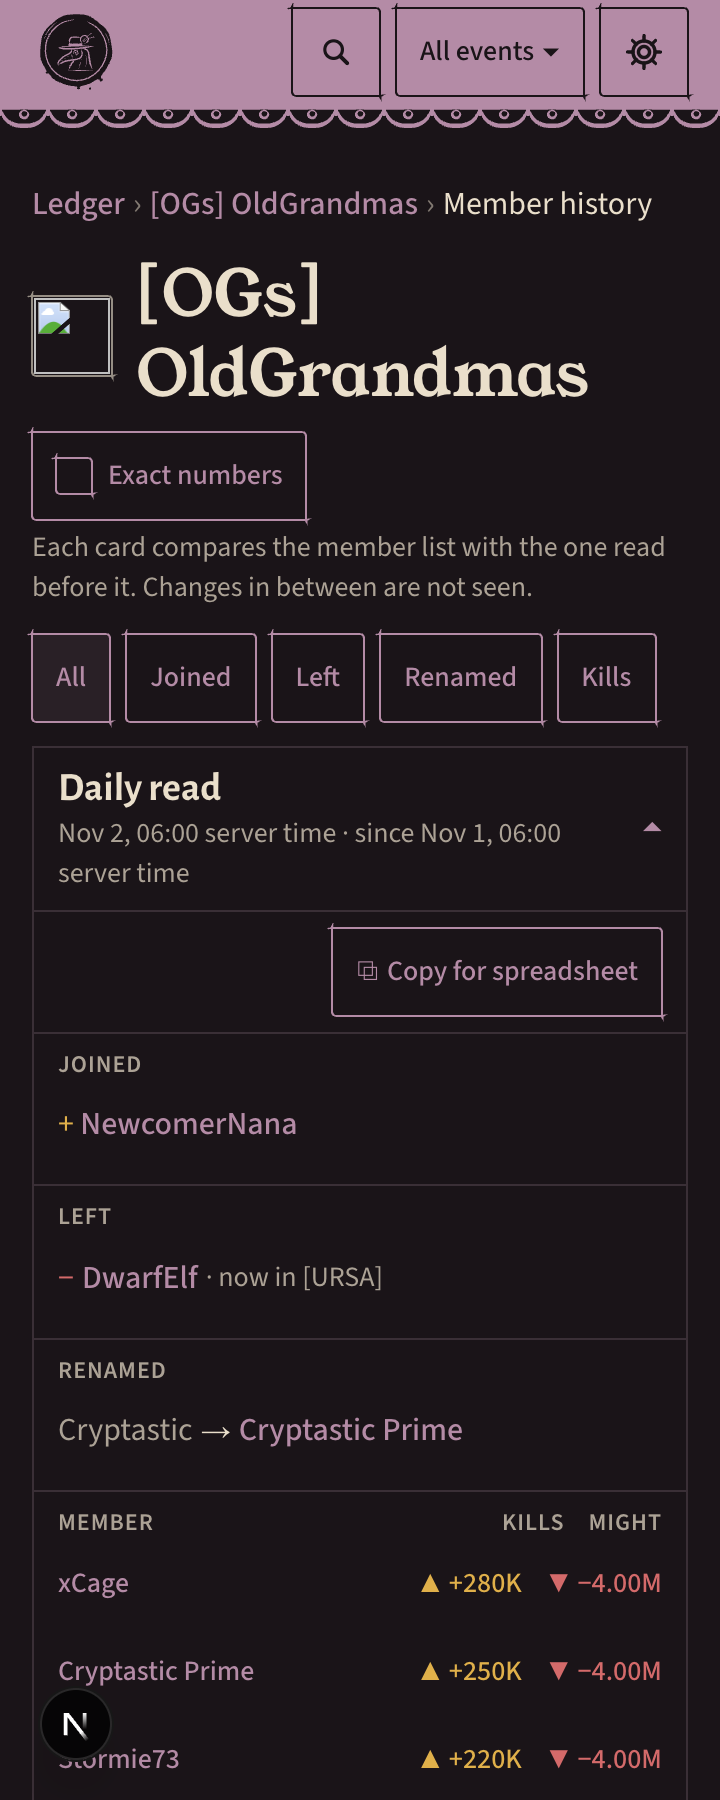
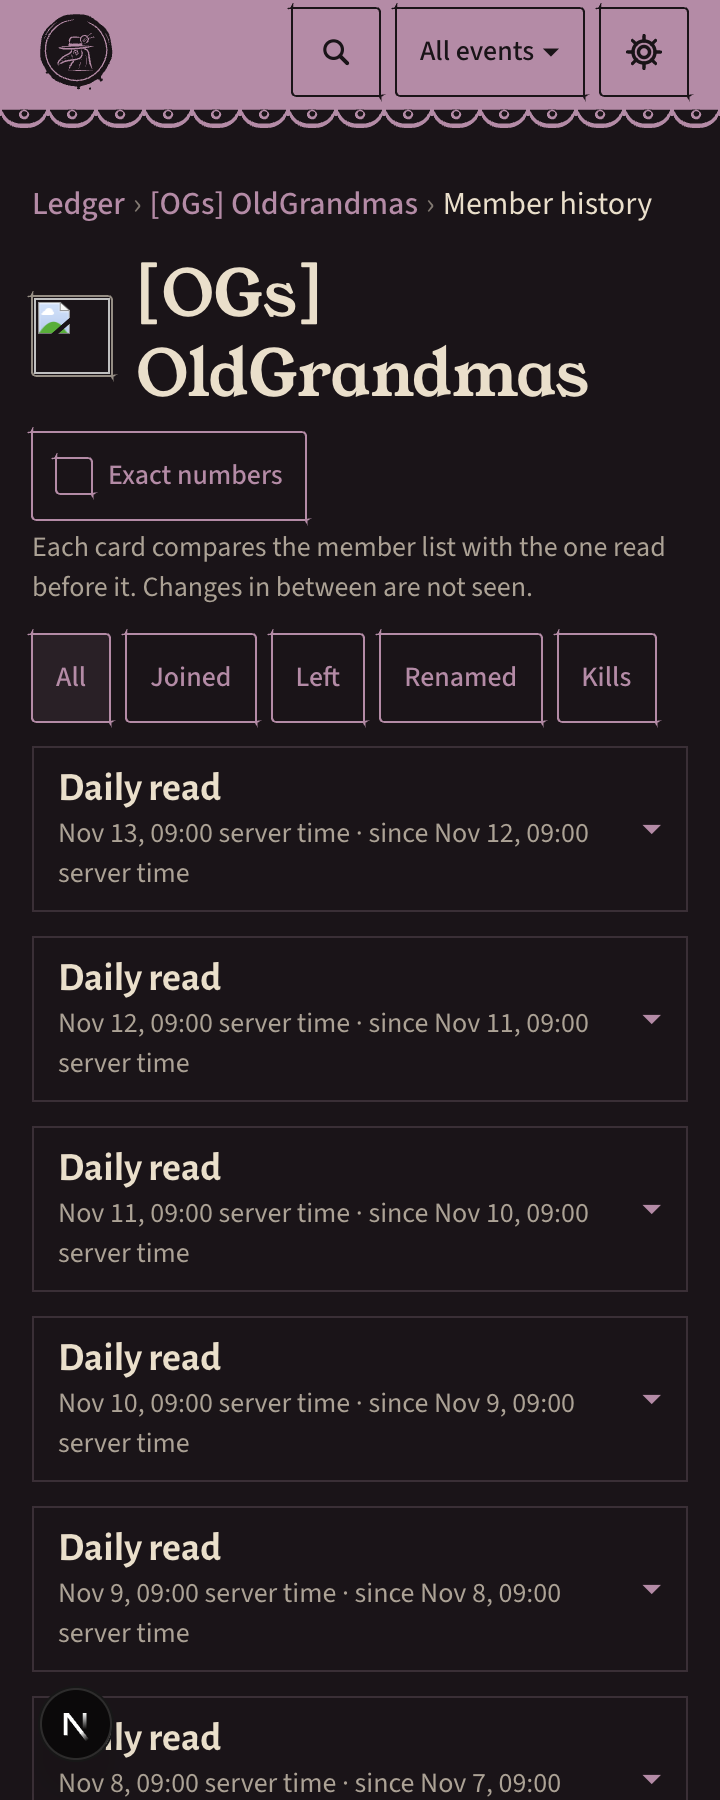
feat(alliance): every member history card starts collapsed (#197)
No card opens by default and the page reads only the cards' heads; each
card fetches its contents on first open.

diff --git a/app/(pages)/alliances/[unionId]/history/page.tsx b/app/(pages)/alliances/[unionId]/history/page.tsx
@@ -1,7 +1,7 @@
 // `/alliances/[unionId]/history[?show=joined|left|renamed|kills][&before=<ISO time>]`: member history
 // (D60, issue 197). One card per stored roster (daily reads and public event snapshots), newest first, 14
-// a page; only the first card starts open and comes with its contents, the others load theirs when
-// opened. With a filter on, every card is diffed here to know which match. No event in the URL: the
+// a page; every card starts closed and loads its contents when opened. With a filter on, every card is
+// diffed here to know which match. No event in the URL: the
 // history belongs to none, so the header's selector reads "All events".
 // A union id with no usable roster is a 404.
 import type { Metadata } from "next";
@@ -22,27 +22,12 @@ import { SiteHeader } from "@/app/_ui/SiteHeader";
 import type { Dictionary } from "@/lib/copy";
 import type { Db } from "@/lib/db";
 import { withPageDb } from "@/lib/page";
-import {
-  homeEvent,
-  listEvents,
-  memberHistory,
-  memberHistoryIndex,
-  type HistoryCard,
-} from "@/lib/queries";
+import { homeEvent, listEvents, memberHistory, memberHistoryIndex } from "@/lib/queries";
 
 type Params = Promise<{ unionId: string }>;
 type Search = Promise<Record<string, string | string[] | undefined>>;
 
-const bodyOf = ({ roster, joined, left, renamed, changed }: HistoryCard) => ({
-  roster,
-  joined,
-  left,
-  renamed,
-  changed,
-});
-
-/** The cards' heads and the first card's contents. Unfiltered: the light index, plus one full card.
- * Filtered: every card diffed, to keep those that match. */
+/** The cards' heads. Unfiltered: the light index. Filtered: every card diffed, to keep those that match. */
 async function historyPage(
   db: Db,
   unionId: number,
@@ -61,15 +46,9 @@ async function historyPage(
       badgeId,
       older,
       entries: cards.map(({ at, event, since }) => ({ at, event, since })),
-      firstBody: cards[0] ? bodyOf(cards[0]) : null,
     };
   }
-  const [index, first] = await Promise.all([
-    memberHistoryIndex(db, unionId, { before }),
-    memberHistory(db, unionId, { before, limit: 1 }),
-  ]);
-  const card = first?.cards[0];
-  return index && { ...index, firstBody: card ? bodyOf(card) : null };
+  return memberHistoryIndex(db, unionId, { before });
 }
 
 const load = cache((unionId: number, before: number | null, show: HistoryFilter | null) =>
@@ -236,12 +215,11 @@ export default async function MemberHistoryPage({
           <EmptyState>{copy.history.none}</EmptyState>
         ) : (
           <ul>
-            {history.entries.map((e, i) => (
+            {history.entries.map((e) => (
               <HistoryCardView
                 key={e.at.toISOString()}
                 unionId={unionId}
                 entry={e}
-                body={i === 0 ? history.firstBody : null}
                 filter={show}
                 clock={clock}
                 copy={copy}

diff --git a/app/_ui/MemberHistory.tsx b/app/_ui/MemberHistory.tsx
@@ -1,14 +1,14 @@
 // Member history (D60, issue 197): one collapsible card per stored roster, newest first. The head says when
-// the data was read (a daily read, or an event's Start or End) and since when the card counts. Only the
-// page's first card is open and comes with its contents; the others fetch theirs when opened
-// (MemberHistoryBody). Below 640 px and above, the same card.
+// the data was read (a daily read, or an event's Start or End) and since when the card counts. Every
+// card starts closed and fetches its contents when first opened (MemberHistoryBody). Below 640 px and
+// above, the same card.
 import { fill, type Dictionary } from "@/lib/copy";
-import type { HistoryCardBody, HistoryEntry } from "@/lib/queries";
+import type { HistoryEntry } from "@/lib/queries";
 
 import { EventLabel } from "./EventLabel";
 import { type Clock } from "./format";
 import type { HistoryFilter } from "./member-history";
-import { CardBody, LazyCardBody } from "./MemberHistoryBody";
+import { LazyCardBody } from "./MemberHistoryBody";
 
 const MUTED = "text-ink/70";
 
@@ -44,38 +44,30 @@ function CardHead({ entry, clock, copy }: { entry: HistoryEntry; clock: Clock; c
   );
 }
 
-/** A collapsible card (native `<details>`). `body` given: open, with its contents; null: closed, its
- * contents fetched on the first open. */
+/** A collapsible card (native `<details>`), closed; its contents are fetched on the first open. */
 export function HistoryCardView({
   unionId,
   entry,
-  body,
   filter,
   clock,
   copy,
 }: {
   unionId: number;
   entry: HistoryEntry;
-  body: HistoryCardBody | null;
   filter: HistoryFilter | null;
   clock: Clock;
   copy: Dictionary;
 }) {
-  const first = entry.since === null;
   return (
     <li className="mb-3 border border-rule">
-      <details open={body !== null} className="group/card">
+      <details className="group/card">
         <CardHead entry={entry} clock={clock} copy={copy} />
-        {body ? (
-          <CardBody body={body} filter={filter} first={first} />
-        ) : (
-          <LazyCardBody
-            unionId={unionId}
-            at={entry.at.toISOString()}
-            filter={filter}
-            first={first}
-          />
-        )}
+        <LazyCardBody
+          unionId={unionId}
+          at={entry.at.toISOString()}
+          filter={filter}
+          first={entry.since === null}
+        />
       </details>
     </li>
   );

diff --git a/app/_ui/MemberHistoryBody.tsx b/app/_ui/MemberHistoryBody.tsx
@@ -1,9 +1,8 @@
 "use client";
 
 // A member history card's contents (D60): the copy button, then who joined, who left (and where they are
-// now), who changed name, and whose kills or might changed. The open card gets its contents with the
-// page; a closed one fetches them the first time it is opened (LazyCardBody), so the page carries only
-// the cards' heads.
+// now), who changed name, and whose kills or might changed. A card fetches them the first time it is
+// opened (LazyCardBody), so the page carries only the cards' heads.
 import Link from "next/link";
 import { useEffect, useRef, useState, type ReactNode } from "react";
 
@@ -95,7 +94,7 @@ function LeftGroup({ body, copy }: { body: HistoryCardBody; copy: Dictionary }) 
 }
 
 /** `first`: the alliance's first stored roster, which has nothing to compare with. */
-export function CardBody({
+function CardBody({
   body,
   filter,
   first,

diff --git a/docs/handoff/08zzt-alliance-history.md b/docs/handoff/08zzt-alliance-history.md
@@ -39,7 +39,7 @@ Owner, 2026-11-10, on spike 08zzr (PR #203): "lets go with the option C, you can
   - `app/api/tick/route.test.ts`, 1 test: the read runs once on Friday 2026-11-06 (06:05 and 06:20 server) and not on Saturday 2026-11-07, the scheduled event's day; it creates no event of its own.
   - `lib/queries/member-history.test.ts`, 3 tests: joined, left with `nowIn`, renamed and changed, with a stale roster skipped; paging, and null for an unknown alliance; the index gives the same heads and spans as the full history.
   - `app/api/alliances/[unionId]/history/route.test.ts`, 1 test: the card read at `at` (joined and left against the previous roster, no blocked key), 404 for another time, 400 for a malformed one.
-- Screenshots: `docs/screenshots/08zzt-alliance-history-{360,1280}-{light,dark}.png`, `08zzt-alliance-history-360-light-full.png` (whole page: one card open, seven closed), `08zzt-alliance-history-360-light-left.png` (the Left filter), `08zzt-alliance-link-360.png` (the link on the alliance page).
+- Screenshots: `docs/screenshots/08zzt-alliance-history-{360,1280}-{light,dark}.png`, `08zzt-alliance-history-360-light-full.png` (whole page: 14 closed cards and "Older ↓"), `08zzt-alliance-history-360-light-opened.png` (the first card opened), `08zzt-alliance-history-360-light-left.png` (the Left filter), `08zzt-alliance-link-360.png` (the link on the alliance page).
 
 ## Decisions
 - **14 cards per page, not the spike's 30.** Each card carries its roster's spreadsheet text (≈ 3.5 KB per 100 members) for the copy button. 14 cards are ≈ 50 KB, 30 would be ≈ 105 KB on a phone.
@@ -48,8 +48,8 @@ Owner, 2026-11-10, on spike 08zzr (PR #203): "lets go with the option C, you can
 - **"now in [TAG]"** uses the member's newest sighting in any stored roster (daily or public event). It is shown only when that sighting is in another alliance. It is read from public rosters only, never from `joined_at`.
 - **Event cards are named** by the event's label (D49) and the capture-window words Start / End (`copy.status.start/end`), so no new phase words were needed.
 - **Cards list only members whose kills or might changed**, the first 10, then "Show all (n)" (a `<details>`, no JavaScript). The full roster goes only into the spreadsheet copy.
-- **Lazy contents** (owner, 2026-11-10): the page renders every card's head but only the open card's contents. Unfiltered, it reads `memberHistoryIndex` (heads only: no member lists, no member query) plus `memberHistory(limit 1)` for the open card. Opening a closed card calls `GET /api/alliances/[unionId]/history?at=<ISO time>` once (`memberHistoryCard`), which reuses `memberHistory` with `before = at + 1 ms, limit 1` and checks the time matches. The client part is `app/_ui/MemberHistoryBody.tsx` (`CardBody`, `LazyCardBody`: listens to its `<details>` `toggle`, fetches once, `…` while waiting, "Try again" (`copy.errors.server.retry`, no new strings) on failure). Filters and the spreadsheet text moved to `app/_ui/member-history.ts`, shared by server and client. With a filter on, the page still diffs every roster on the server to know which cards match; only the HTML stays light. The roster reads moved to `lib/queries/history-readings.ts` (file-size limit).
-- **Collapsible cards** (owner, 2026-11-10): each card is a native `<details>` (works without JavaScript). Only the first card on the page is open, i.e. the newest on the first page and, after "Older ↓", the newest of that page. The copy button moved from the head into the card body: a button inside `<summary>` would also toggle the card.
+- **Lazy contents** (owner, 2026-11-10): the page renders only the cards' heads. Unfiltered, it reads `memberHistoryIndex` alone (heads only: no member lists, no member query). Opening a card calls `GET /api/alliances/[unionId]/history?at=<ISO time>` once (`memberHistoryCard`), which reuses `memberHistory` with `before = at + 1 ms, limit 1` and checks the time matches. The client part is `app/_ui/MemberHistoryBody.tsx` (`CardBody`, `LazyCardBody`: listens to its `<details>` `toggle`, fetches once, `…` while waiting, "Try again" (`copy.errors.server.retry`, no new strings) on failure). Filters and the spreadsheet text moved to `app/_ui/member-history.ts`, shared by server and client. With a filter on, the page still diffs every roster on the server to know which cards match; only the HTML stays light. The roster reads moved to `lib/queries/history-readings.ts` (file-size limit).
+- **Collapsible cards** (owner, 2026-11-10): each card is a native `<details>` (opening and closing work without JavaScript; the contents need it). Every card starts closed (owner's second answer; the first version opened the newest). The copy button moved from the head into the card body: a button inside `<summary>` would also toggle the card.
 - **No avatars on the cards**: names only, to keep 14 cards light. Names link to the player page.
 
 ## Deviations
@@ -69,7 +69,8 @@ Owner, 2026-11-10, on spike 08zzr (PR #203): "lets go with the option C, you can
   - The Nov 3 stale read is skipped, and the Nov 2 card reads "since Nov 1, 06:00 server time".
   - "Copy for spreadsheet" with clipboard permission granted: the button reads "Copied" and the clipboard holds 101 lines. The header is `Name\tMight\tKills`, then e.g. `Sashalom\t162567834\t1942393`, 3 fields per row.
   - `?show=left`: 1 card, with "now in [URSA]".
-  - Lazy contents: on load, 8 cards, 1 open, 8 player links on the page and no API call. Opening card 2 makes exactly one call (`?at=2026-11-01T08:00:25.000Z`) and adds its 25 changed members; closing and reopening it makes none; its copy button copies 101 lines. A forced 500 on card 3 shows "Try again", which then loads it. One card's JSON is 10.3 KB (uncompressed, `next dev`).
+  - All collapsed (local data with 10 more daily reads, 18 rosters for OGs): 14 cards, 0 open and no API call on load, at 360 and 1280 px, light and dark; opening the first card makes one call. "Older ↓" leads to `?before=2026-10-31T12:00:30.000Z` with the other 4 cards, "↑ Newest" and no "Older". `?show=left`: 1 card, closed.
+  - Lazy contents (first version, newest card open): on load, 8 cards, 1 open, 8 player links on the page and no API call. Opening card 2 makes exactly one call (`?at=2026-11-01T08:00:25.000Z`) and adds its 25 changed members; closing and reopening it makes none; its copy button copies 101 lines. A forced 500 on card 3 shows "Try again", which then loads it. One card's JSON is 10.3 KB (uncompressed, `next dev`).
   - Collapsible cards: 8 cards, 1 open at each width and theme; tapping the second card's head opens it (2 open); the head row is 81 px tall at 360 px.
   - The alliance page has the "Member history" link.
   - `/alliances/99/history`, `/alliances/abc/history` and `?before=nope` answer 404.

diff --git a/docs/DESIGN.md b/docs/DESIGN.md
@@ -307,7 +307,7 @@ The whole list. Anything else is a composition of these; a new one needs a line 
 - **`stat-table` / `stat-card`** — one `StatTable` component: table ≥ 640 px, cards below. Rows ≥ 44 px; numerals right-aligned. The card is simple — rank, picture, `[TAG] Name`, then Might, Kills, Members (or Level) with their change — and the full figures open under a framed "Details ▾" control (owner, 2026-11-05). At ≥ 640 px each value keeps its label as screen-reader text.
 - **`event-compare`** — the compare page's card (`app/_ui/EventCompare.tsx`, picker `app/_ui/ComparePicker.tsx`; D57, #177): `history-row` turned on alliances. The name (badge and `[TAG] Name`, or photo and name for a member, with the member's Might) on top below 640 px, spanning both lines from 640 px; then a line per event: its date (with the time when both events fall on one day) and the ledger rank by might at After with its move, then each figure's change during that event (Might, Kills, Members for an alliance; Might, Kills for a member), percent of the Before value under it below 640 px, `*` (D33) when it fell while members left. A side that is missing, stale or failed reads `—`; the row's one mark is the worst side of either event. A member not in the alliance in an event reads "not in alliance" there. Details: the reference values from the first event to the second, and who joined or left between them. The totals band above the list sums only the alliances with a change in both events and says how many. The picker is two native selects (A, B) in a GET form, a 44 px ⇄ swap link and the primary "Compare" button: no JavaScript needed, the URL is the link to share.
 - **`history-row`** — the player page's row per event (`PlayerAcrossEvents`, Session 7g, 07c N2): the same card and Details control, turned on its side. `#n` and the event on one baseline, by its title with the date under it, or by its date while it keeps its generated name (D49); Might, Kills and Level are columns (heads inside the card below 640 px, in the table header above); each line under them has its head on the left — the time the values are from (`14:00 server`), `since 10:00` (the change inside the event) and `since Oct 24` (the change since the previous event) — so the two changes sit in the same columns and read apart. Below 640 px the percent goes under the change. The alliance is named on the row only when the player has been in more than one; the before values are in Details (snapshot times as heads, the in-alliance rank in `Rank`).
-- **`member-history`** — one stored roster (`app/_ui/MemberHistory.tsx`, D60), a native `<details>` card: only the page's first (newest) card is open, the rest show only their head. The head is the ≥ 44 px summary row: the read (a daily read, or the event and Start or End), its time and "since" the previous usable read, and a ▾ that turns when open. Inside (loaded with the page for the open card, fetched on first open for the others, `…` while loading, "Try again" on failure): the "Copy for spreadsheet" button on the right, then groups, each under a label: Joined (`+ Name`), Left (`− Name · now in [TAG]`), Renamed (`Old → New`), then a three-column list (Member, Kills, Might) of the members whose figures changed, most kills gained first, the first 10 shown and the rest under "Show all (n)". Names link to the player page. The same card at every width.
+- **`member-history`** — one stored roster (`app/_ui/MemberHistory.tsx`, D60), a native `<details>` card; every card starts closed and shows only its head. The head is the ≥ 44 px summary row: the read (a daily read, or the event and Start or End), its time and "since" the previous usable read, and a ▾ that turns when open. Inside (fetched on first open, `…` while loading, "Try again" on failure): the "Copy for spreadsheet" button on the right, then groups, each under a label: Joined (`+ Name`), Left (`− Name · now in [TAG]`), Renamed (`Old → New`), then a three-column list (Member, Kills, Might) of the members whose figures changed, most kills gained first, the first 10 shown and the rest under "Show all (n)". Names link to the player page. The same card at every width.
 - **`details-table`** — what "Details" opens, the same at every depth (`DetailTable` in `app/_ui/DetailLines.tsx`, Session 7d, 07c B2): one small table, a row per figure (Might, Kills, Members, then Ranking — the game's server rank), the two moments as column heads — the snapshot times (`Server time` in the corner, `10:00`, `→ 14:00`, with `○`/`✗` beside a side that is stale or failed) or, on an alliance's history rows, the two events' dates — then `Change` (no percent: the card has it) and `Rank`, the ledger rank `#n` with its move (owner, 2026-11-05: heads in words, "Ranking" for the server row). Tabular, right-aligned; notes in seal under the change.
 - **`delta-up` / `delta-down`** — `value · ±delta with arrow · ±%`; kills with the member-loss note when negative (the words sit in Details; the row carries only the `member-mark`).
 - **`member-mark`** — a footnote star `*` after a Might or Kills change that is negative while members left (`Delta`'s `memberMark`, set by `fellWithLeavers` in `app/_ui/event-rows.ts`; session 10). The `*` is in the change's colour run, aria-hidden, with the legend words as screen-reader text. The legend lists `* Includes member changes` only on a page that shows at least one `*`. Main page and alliance page; the player page has no alliance totals. Not `±`: `±` already means "change" (`± Kills` sort chips) and beside a number it reads as a margin of error.

diff --git a/docs/DECISIONS.md b/docs/DECISIONS.md
@@ -533,5 +533,5 @@ Why: the owner wants to see who joined or left an alliance, who changed name and
 - **Budget.** One `/v1/quota` call first. The read starts only if `remaining ≥ requiredQuota(k) + requiredQuota(20)` (`dailyReadQuota`, INVARIANT `budget.daily-keeps-event-reserve`): 100 for 20 alliances. Cost 1 + k calls a day (21) on six days of seven, up to 1 + 4k in an outage. `MAX_UPSTREAM_CALLS`, the 100 s deadline and "429 stops the run" apply as for snapshots.
 - **No internal fallback.** D5's fallback covers event snapshots only; a failed alliance gets an error row and is a gap in its history.
 - **Outcome.** The `daily_reads` row (status, calls, quota before, error) and `tick_log.outcome = daily-read`. `run_logs` needs a snapshot and is not used. One admin Discord line when the read is `partial` or `failed`; nothing public.
-- **The page** `/alliances/[unionId]/history` ("Member history"), linked from the alliance page's title row. It merges the alliance's daily rosters with its public event rosters (`publicEvent`), newest first, 14 per page (`?before=`). Each card diffs one usable roster (fresh, no error, not empty) against the previous usable one by uid (`compute.rosterDiff`): joined, left, renamed, and the members whose kills or might changed. A stale or failed roster is skipped, and the card's "since" names the span. A leaver whose newest sighting is in another tracked alliance shows "now in [TAG]". Joined and left come only from the diff; `joined_at`, online status and coordinates are never read. Filters: All, Joined, Left, Renamed, Kills (`?show=`). Each card is a collapsible `<details>`; only the page's first (newest) card is open (owner, 2026-11-10: not to overwhelm at first sight). Closed cards load their contents on first open (owner, 2026-11-10): the page reads only the cards' heads (`memberHistoryIndex`, no member lists) plus the open card's contents; opening another card fetches `GET /api/alliances/[unionId]/history?at=<ISO time>` once (`memberHistoryCard`: that roster diffed against the previous usable one; `Cache-Control: public, s-maxage=300`; 404 when no usable roster was read at that time). A failed fetch shows "Try again". With a filter on, the page still diffs every roster to know which cards match; only the HTML stays light. The copy button sits inside the card, not in its summary, so a tap on it never toggles the card.
+- **The page** `/alliances/[unionId]/history` ("Member history"), linked from the alliance page's title row. It merges the alliance's daily rosters with its public event rosters (`publicEvent`), newest first, 14 per page, with "Older ↓" and "↑ Newest" links (`?before=`, the filter kept). Each card diffs one usable roster (fresh, no error, not empty) against the previous usable one by uid (`compute.rosterDiff`): joined, left, renamed, and the members whose kills or might changed. A stale or failed roster is skipped, and the card's "since" names the span. A leaver whose newest sighting is in another tracked alliance shows "now in [TAG]". Joined and left come only from the diff; `joined_at`, online status and coordinates are never read. Filters: All, Joined, Left, Renamed, Kills (`?show=`). Each card is a collapsible `<details>` and every card starts closed (owner, 2026-11-10: not to overwhelm at first sight). Cards load their contents on first open (owner, 2026-11-10): the page reads only the cards' heads (`memberHistoryIndex`, no member lists); opening a card fetches `GET /api/alliances/[unionId]/history?at=<ISO time>` once (`memberHistoryCard`: that roster diffed against the previous usable one; `Cache-Control: public, s-maxage=300`; 404 when no usable roster was read at that time). A failed fetch shows "Try again". With a filter on, the page still diffs every roster to know which cards match; only the HTML stays light. The copy button sits inside the card, not in its summary, so a tap on it never toggles the card.
 - **Copy for spreadsheet.** Each card has a button that copies its whole member list as tab-separated rows (`Name`, `Might`, `Kills` in the page's language, then one row per member by might, plain integers). The text is built on the server; the button calls `navigator.clipboard.writeText`. A name starting with `=`, `+`, `-` or `@` gets a leading apostrophe, so a spreadsheet keeps it as text instead of running it as a formula.
